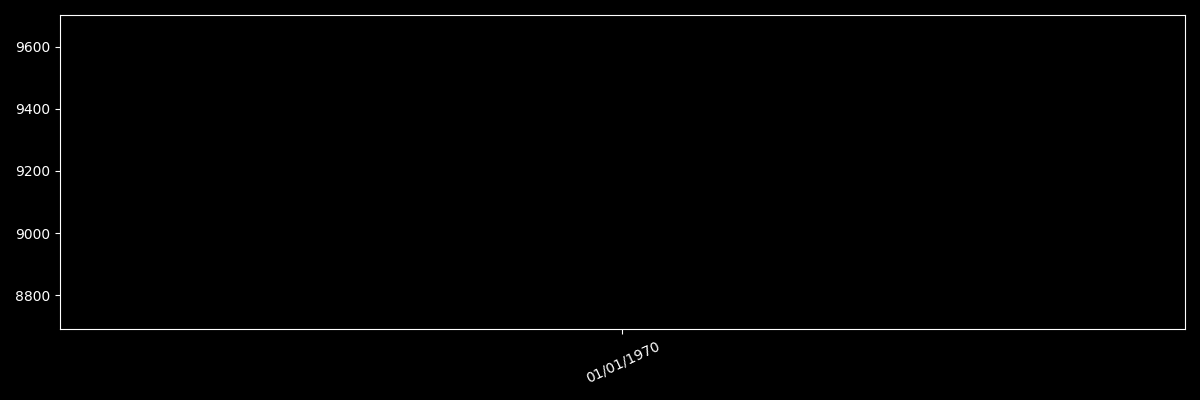
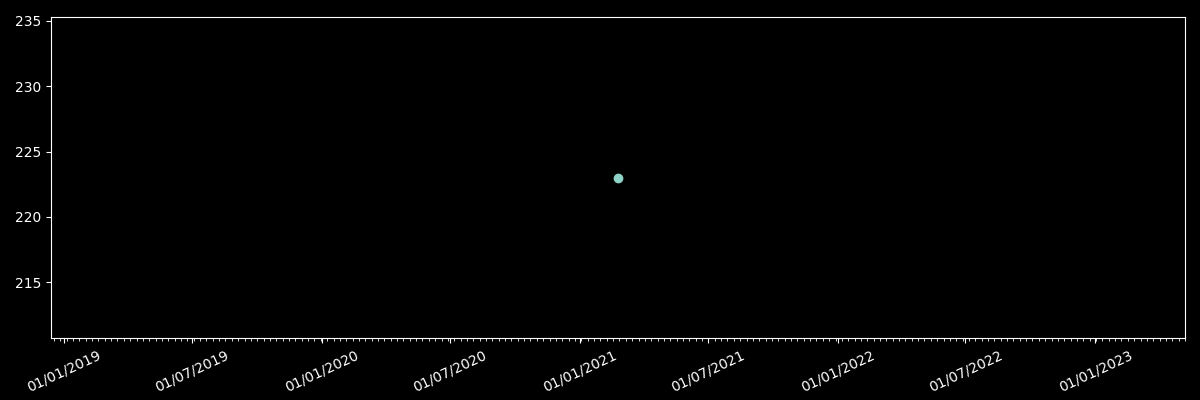
Done with county page

diff --git a/main.py b/main.py
@@ -69,8 +69,6 @@ def getCountyData():
     results_df = pd.read_csv("countyFile")
     results_df['data_as_of'] = pd.to_datetime(
                 results_df['data_as_of'])
-    results_df['data_as_of'] = results_df['data_as_of'].dt.strftime(
-        '%Y-%m-%d')
     
     return results_df
 
@@ -110,7 +108,6 @@ def datafunc2():
                                     "covid_death": "Total Covid Deaths"})
 
         # Here we create python graphs and save them to png files so that they can be displayed on html
-
         plt.figure(figsize=(12, 4))
         plt.xticks(rotation=45)
         plt.style.use('dark_background')
@@ -123,17 +120,23 @@ def datafunc2():
         plt.xticks(rotation=25)
         plt.style.use('dark_background')
         ax.plot(data.sort_values('Date', ascending=True).reset_index(
-            drop=True)['Date'], data['Total Covid Deaths'][::-1].astype('int'))
+            drop=True)['Date'], data['Total Covid Deaths'][::-1].astype('int'), '-o')
         plt.tight_layout()
         if len(data) > 14 and len(data) < 90:
+            print("Shit")
             ax.xaxis.set_major_formatter(DateFormatter("%d/%m/%Y"))
             ax.xaxis.set_minor_locator(plt.MultipleLocator(1))
+            plt.savefig('./static/totalDeaths_county.png')
         if len(data) >= 90:
             ax.xaxis.set_major_formatter(DateFormatter("%m/%Y"))
-            ax.xaxis.set_minor_locator(plt.MultipleLocator(1)) 
+            ax.xaxis.set_minor_locator(plt.MultipleLocator(1))
+            plt.savefig('./static/totalDeaths_county.png')
         else:
+            print("Nice")
             ax.xaxis.set_major_formatter(DateFormatter("%d/%m/%Y"))
-        plt.savefig('./static/totalDeaths_county.png')
+            ax.xaxis.set_minor_locator(plt.MultipleLocator(1))
+            plt.savefig('./static/totalDeaths_county.png')
+
 
         post = "This is a post"
         return render_template('datasearchcounty.html', dataColumns=data.keys(), dataItems=data.to_numpy(), post=post)
